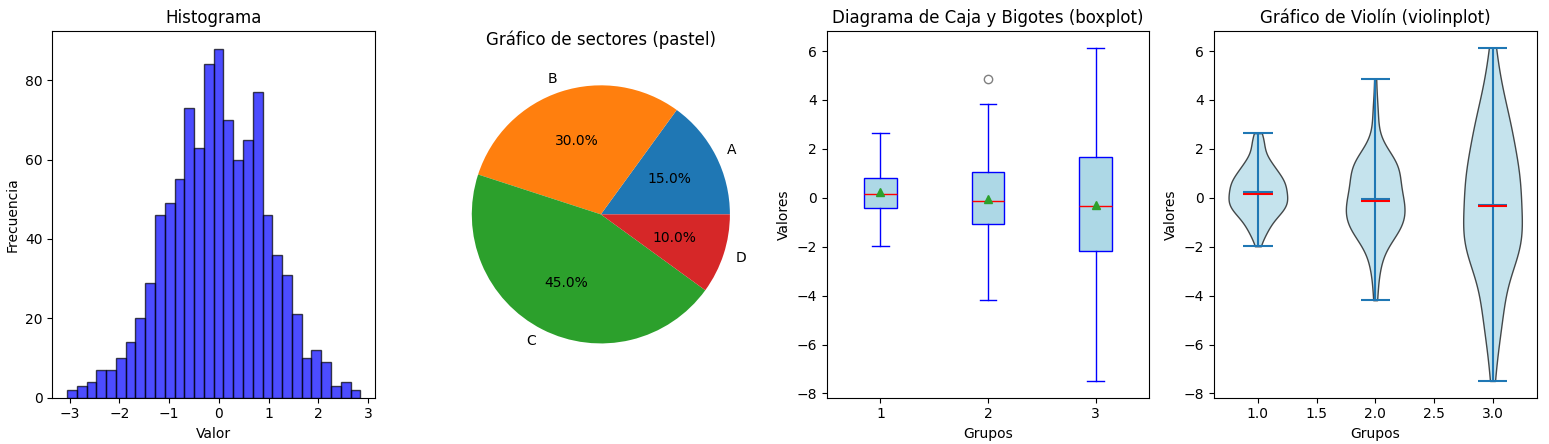
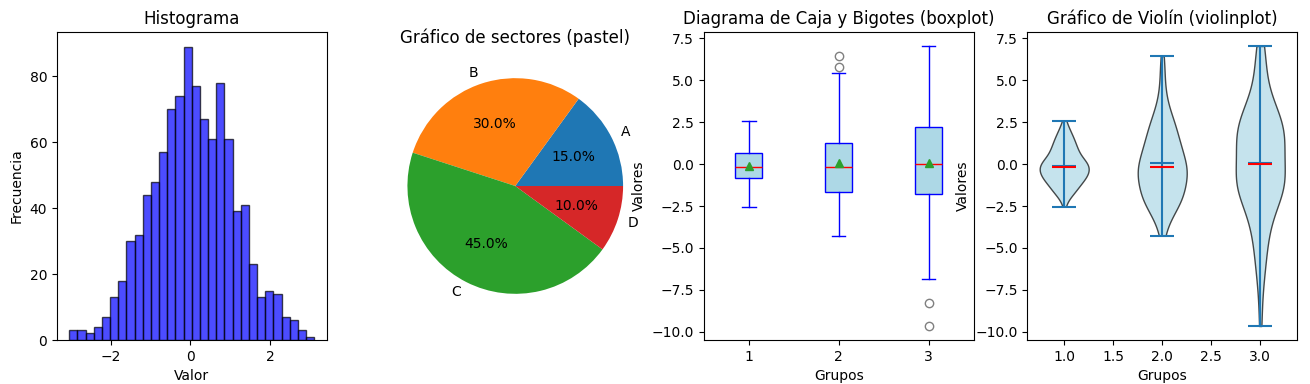
[python] avances en seccion 8-visualizacion

diff --git a/curso_python/actividades/seccion8_graficos_matplotlib.py b/curso_python/actividades/seccion8_graficos_matplotlib.py
@@ -1,28 +1,42 @@
-import matplotlib.pyplot as plt
-import numpy as np
+
+from mpl_toolkits.mplot3d import Axes3D # Habilita los gráficos 3D
+import matplotlib.pyplot as plt         # Creación de gráficos
+import seaborn as sns                   # Pares de gráficas (pairplots)
+import pandas as pd                     # Generación de DataFrames para los pairplots
+import numpy as np                      # Generación de números aleatorios
+
+TAMAÑO = (16, 4)  # Tamaño de figura horizontal
 
 def graficos_univariantes() -> None:
-  fig, ax = plt.subplots(1, 4)  # 1 row with 4 columns
+  """
+  Genera una figura con 4 subplots mostrando gráficos univariantes. Respectivamente:
+  - Histograma
+  - Gráfico de sectores (pastel o pie-chart en inglés)
+  - Diagrama de Caja y Bigotes (boxplot en inglés)
+  - Gráfico de Violín (violin-plot en inglés)
+  """
+  # Crear una figura con 4 subplots en horizontal
+  fig, ax = plt.subplots(1, 4, figsize=TAMAÑO)
 
   datos = np.random.standard_normal(1000)  # Datos aleatorios
   ax[0].hist(datos, bins=30, color='blue', alpha=0.7, edgecolor='black')  # Otros parámetros: cumulative, density/normalización
   ax[0].set_xlabel('Valor')
   ax[0].set_ylabel('Frecuencia')
-  ax[0].title.set_text('Histograma')
+  ax[0].set_title('Histograma')
 
   labels = 'A', 'B', 'C', 'D'
   sizes = [15, 30, 45, 10]
   ax[1].pie(sizes, labels=labels, autopct='%1.1f%%')
-  ax[1].title.set_text('Gráfico de sectores (pastel)')
+  ax[1].set_title('Gráfico de sectores (pastel)')
 
   data = [np.random.normal(0, std, 100) for std in range(1, 4)]
   ax[2].boxplot(data, vert=True, patch_artist=True, showmeans=True,  # Orientar cajas verticalmente, dar color y mostrar media (verde)
-            boxprops=dict(facecolor='lightblue', color='blue'),         # Personalizar cajas
-            whiskerprops=dict(color='blue'),                            # Personalizar bigotes (líneas verticales)
-            capprops=dict(color='blue'),                                # Personalizar 'caps' (límites de bigotes)
-            flierprops=dict(marker='o', color='red', alpha=0.5),        # Personalizar outliers
-            medianprops=dict(color='red'))                              # Personalizar mediana
-  ax[2].title.set_text('Diagrama de Caja y Bigotes (boxplot)')
+            boxprops=dict(facecolor='lightblue', color='blue'),      # Personalizar cajas
+            whiskerprops=dict(color='blue'),                         # Personalizar bigotes (líneas verticales)
+            capprops=dict(color='blue'),                             # Personalizar 'caps' (límites de bigotes)
+            flierprops=dict(marker='o', color='red', alpha=0.5),     # Personalizar outliers
+            medianprops=dict(color='red'))                           # Personalizar mediana
+  ax[2].set_title('Diagrama de Caja y Bigotes (boxplot)')
   ax[2].set_xlabel('Grupos')
   ax[2].set_ylabel('Valores')
   
@@ -32,51 +46,63 @@ def graficos_univariantes() -> None:
       pc.set_edgecolor('black')      # Personalizar color de los bordes
       pc.set_alpha(0.7)              # Configurar transparencia
   parts['cmedians'].set_edgecolor('red')
-  ax[3].title.set_text('Gráfico de Violín (violinplot)')
+  ax[3].set_title('Gráfico de Violín (violinplot)')
   ax[3].set_xlabel('Grupos')
   ax[3].set_ylabel('Valores')
 
   plt.show()
 
 def graficos_bivariantes() -> None:
-  fig, ax = plt.subplots(1, 4)  # Grid of 1 row with 4 columns
+  """
+  Genera una figura con 4 subplots mostrando gráficos bivariantes. Respectivamente:
+  - Diagrama de dispersión (i.e., gráfico de puntos) con una línea de regresión
+  - Gráfico de líneas
+  - Gráfico de barras apiladas
+  - Gráfico de barras agrupadas
+  """
+  # Crear una figura con 4 subplots en horizontal
+  fig, ax = plt.subplots(1, 4, figsize=TAMAÑO)
 
+  # Diagrama de dispersión con línea de regresión
   x = np.array([5, 7, 8, 5, 6, 7, 9, 2, 3, 4, 4, 4, 5, 6, 7])
   y = np.array([7, 4, 3, 8, 3, 2, 4, 9, 6, 1, 8, 7, 1, 2, 6])
   m, b = np.polyfit(x, y, 1)  # Calcular coeficientes de la línea de regresión
-  ax[0].scatter(x, y, color='red', marker='*', label='Samples')  # Color rojo y '*' como puntos
-  ax[0].plot(x, m*x + b, color='blue', label='Regression')  # Añadir línea de regresión
-  ax[0].grid()  # Add grid
-  ax[0].legend()  # Add legend
+  ax[0].scatter(x, y, color='red', marker='*', label='Muestras')  # Color rojo y '*' como puntos
+  ax[0].plot(x, m*x + b, color='blue', label='Regresión')       # Añadir línea de regresión
+  ax[0].set_title('Diagrama de dispersión con regresión')
   ax[0].set_xlabel('Variable X')
   ax[0].set_ylabel('Variable Y')
-  ax[0].title.set_text('Diagrama de dispersión con regresión')
+  ax[0].legend()  # Añadir leyenda
+  ax[0].grid()    # Añadir cuadrícula grid
 
+  # Gráfico de líneas
   x = [0, 1, 2, 3, 4]
   y1 = [0, 1, 4, 9, 16]
   y2 = [0, 1, 2, 3, 4]
-  ax[1].plot(x, y1, marker='x', linestyle='--', color='red', label='Linea 1')  # Linea discontinuea con puntos 'x'
-  ax[1].plot(x, y2, marker='s', color='orange', label='Lina 2')                # Linea naranja con puntos cuadrados
-  ax[1].legend()  # Add legend
+  ax[1].plot(x, y1, marker='x', linestyle='--', color='red', label='Línea 1')  # Linea discontinuea con puntos 'x'
+  ax[1].plot(x, y2, marker='s', color='orange', label='Línea 2')                # Linea naranja con puntos cuadrados
+  ax[1].set_title('Gráfico de líneas')
   ax[1].set_xlabel('Tiempo')
   ax[1].set_ylabel('Valor')
-  ax[1].title.set_text('Gráfico de líneas')
+  ax[1].legend()
 
+  # Gráfico de barras apiladas
   categorias = ['A', 'B', 'C', 'D']
   valores1 = [3, 2, 5, 7]
   valores2 = [4, 6, 2, 5]
   ax[2].bar(categorias, valores1, color='skyblue', label='Conjunto 1', hatch='/')  # Azul claro con patrón
   ax[2].bar(categorias, valores2, bottom=valores1, color='lightgreen', label='Conjunto 2', hatch='\\')  # Verde claro con patrón
-  ax[2].title.set_text('Gráfico de barras apiladas')
+  ax[2].set_title('Gráfico de barras apiladas')
   ax[2].set_xlabel('Categorías')
   ax[2].set_ylabel('Valores')
   ax[2].legend()
 
+  # Gráfico de barras agrupadas
   x = np.arange(len(categorias))
   ancho = 0.35  # Ancho de las barras
   ax[3].bar(x - ancho/2, valores1, width=ancho, label='Conjunto 1')
   ax[3].bar(x + ancho/2, valores2, width=ancho, label='Conjunto 2')
-  ax[3].title.set_text('Gráfico de barras agrupadas')
+  ax[3].set_title('Gráfico de barras agrupadas')
   ax[3].set_xlabel('Categorías')
   ax[3].set_ylabel('Valores')
   ax[3].set_xticks(x, categorias)  # Etiquetar correctamente las posiciones en el eje x.
@@ -86,21 +112,80 @@ def graficos_bivariantes() -> None:
 
 def graficos_multivariantes() -> None:
   """
-  heatmaps de múltiples variables (x, y, color)
-  dispersion + tamaño y color (x, y, size, color)
-  pares de gráficas (pairplots)
-  gráficos de dispersión 3d
-  gráficos de superfície 3d
+  Genera una figura con 4 subplots mostrando gráficos univariantes. Respectivamente:
+  - Mapa de calor (heatmap en inglés) para 3 variables (x, y, color)
+  - Gráfico de dispersión para 4 variables (x, y, size, color)
+  - Gráficos de dispersión 3D
+  - Gráficos de superfície 3D
   """
-  fig, ax = plt.subplots(1, 4)  # Grid of 1 row with 4 columns
+  # Crear 1 figura y 4 subplots (2 de ellos en 3D)
+  fig = plt.figure(figsize=TAMAÑO)
+  ax1 = fig.add_subplot(1, 4, 1)
+  ax2 = fig.add_subplot(1, 4, 2)
+  ax3 = fig.add_subplot(1, 4, 3, projection='3d')
+  ax4 = fig.add_subplot(1, 4, 4, projection='3d')
 
-  data = np.random.random((10, 10))
-  ax[0].imshow(data, cmap='hot', interpolation='nearest')
-  ax[0].title.set_text('Mapa de calor')
+  # Mapa de calor (heatmap) 3D (x, y, color)
+  data = np.random.random((10, 10))  # Valores en forma matricial (e.g., matriz de correlación, imagen, etc.)
+  mapa = ax1.imshow(data, cmap='hot', interpolation='nearest')  # Varios colores disponibles (viridis, plasma, inferno, magma, etc.)
+  ax1.set_title('Mapa de calor 3D')
+  fig.colorbar(mapa, ax=ax1)  # Barra de color (se puede compartir entre varios subplots)
+
+  # Diagrama de dispersión con colores y tamaños 4D (x, y, size, color)
+  x = np.random.random(100)             # Variable 1
+  y = np.random.random(100)             # Variable 2
+  sizes = 100 * np.random.random(100)   # Variable 3
+  colors = np.random.random(100)        # Variable 4
+  disp4d = ax2.scatter(x, y, c=colors, s=sizes, alpha=0.5, cmap='viridis')
+  ax2.set_title('Gráfico de dispersión 4D')
+  ax2.set_xlabel('Variable X')
+  ax2.set_ylabel('Variable Y')
+  fig.colorbar(disp4d, ax=ax2)
+
+  # Diagrama de dispersión 5D (x, y, z, size, color)
+  z = np.random.random(100)
+  disp5d = ax3.scatter(x, y, z, c=colors, s=sizes, cmap='viridis', alpha=0.6)
+  ax3.set_title('Gráfico de dispersión 5D')
+  ax3.set_xlabel('Variable X')
+  ax3.set_ylabel('Variable Y')
+  ax3.set_zlabel('Variable Z')
+  fig.colorbar(disp5d, ax=ax3)
+
+  # Gráfico de superfície 3D
+  x = np.linspace(-5, 5, 100)
+  y = np.linspace(-5, 5, 100)
+  x, y = np.meshgrid(x, y)
+  z = np.sin(np.sqrt(x**2 + y**2))
+  superficie = ax4.plot_surface(x, y, z, cmap='coolwarm', edgecolor='none')
+  ax4.set_title('Gráfico de superfície 3D')
+  ax4.set_xlabel('Variable X')
+  ax4.set_ylabel('Variable Y')
+  ax4.set_zlabel('Variable Z')
+  plt.colorbar(superficie, ax=ax4, label='Valor de Z')
+
   plt.show()
+
+def graficos_pairplot() -> None:
+  """
+  Genera una figura mostrando pares de gráficos (pair-plots en inglés) utilizando una variable categórica para dividir (y colorear) las muestras.
+  """
+  # DataFrame de ejemplo con variable categórica que divida las muestras en 2 grupos
+  data = pd.DataFrame({
+      'Variable A': np.random.random(100),
+      'Variable B': np.random.random(100),
+      'Variable C': np.random.random(100),
+      'Variable D': np.random.random(100)
+  })
+  data['Categoría'] = np.random.choice(['Grupo 1', 'Grupo 2'], size=100)
+
+  # Creación del pairplot categórico
+  sns.pairplot(data, hue='Categoría')
+  plt.show()
+
 
 if __name__ == '__main__':
    graficos_univariantes()
    graficos_bivariantes()
    graficos_multivariantes()
+   graficos_pairplot()
    # TODO: Add world map visualization like https://stackoverflow.com/questions/72598996/indexerror-too-many-indices-for-array-array-is-1-dimensional-but-2-were-index

diff --git a/curso_python/8_visualizacion_datos.md b/curso_python/8_visualizacion_datos.md
@@ -17,7 +17,7 @@ Veremos cómo organizarlos con varios `subplot` y `GridSpec`, controlar los ejes
 Veremos cómo personalizar temas, paletas y estilos con más facilidad que con `Matplotlib`, controlar títulos, etiquetas y leyendas y crear gráficos compuestos con FacetGrid, PairGrid y JointGrid.
 
 
-# 8.2. Introducción e Instalación de Matplotlib
+# 8.2. Matplotlib
 `Matplotlib` ofrece una **API orientada a objetos** para crear y manipular objetos como objetos como figuras y ejes. Es fácilmente integrable con `NumPy` y `Pandas` y permite **exportar los gráficos** generados en múltiples formatos (`PNG`, `PDF`, `SVG`, `EPS`, etc) con alta calidad. También ofrece **gráficos interactivos**
 
 Además de su interfaz orientada a objetos, `Matplotlib` ofrece `PyPlot`, otra inferfaz similar a MATLAB para crear gráficos rápidamente. Un ejemplo básico de uso de `PyPlot` es:
@@ -44,9 +44,25 @@ ax.set_ylabel('Eje Y')
 plt.show()  # Mostrar gráfico
 ```
 
-Respecto a los **tipos de gráficos**, tenemos los siguientes (el código para generarlos está en [actividades/seccion8_graficos_matplotlib.py](actividades/seccion8_graficos_matplotlib.py)):
+Respecto a los **tipos de gráficos**, en las siguientes imágenes se muestran los tipos de gráficos univariantes, bivariantes y multivariantes que propone `Matplotlib` (el código para generarlos está en [actividades/seccion8_graficos_matplotlib.py](actividades/seccion8_graficos_matplotlib.py)). Es necesario precisar que para utilizar los gráficos en 3D, se necesita utilizar el módulo `mpl_toolkits.mplot3d` e inicializar un objeto `Axes3D`.
 
-<img src="imgs/8_visualizacion__graficos_univariantes.png" height="300">
+<img src="imgs/8_visualizacion__graficos_univariantes.png" width="1000">
+<img src="imgs/8_visualizacion__graficos_bivariantes.png" width="1000">
+<img src="imgs/8_visualizacion__graficos_multivariantes.png" width="1000">
+
+Otro tipo de visualización son los **pares de gráficos** o *pairplots*, que consisten en combinar múltiples variables (4 en el ejemplo) y representar un gráfico de dispersión para cada posible combinación de variables, generando una matriz de gráficos. La **diagonal** de dicha matriz suele ser un histograma que represente la distribución de valores de cada variable. `Seaborn` permite utilizar una **variable categórica** para colorear los puntos, lo que puede ser útil si las muestras de cada variable pertenecen a categorías diferenciadas. Aquí se muestran ejemplos de ambos casos (el código también está en [actividades/seccion8_graficos_matplotlib.py](actividades/seccion8_graficos_matplotlib.py)):
+
+<img src="imgs/8_visualizacion__pairplot.png" height="600">
+
+En el script [actividades/seccion8_graficos_matplotlib.py](actividades/seccion8_graficos_matplotlib.py) se utiliza `plt.subplots()` para organizar **múltiples visualizaciones** en una sola figura. Sin embargo, `Matplotlib` ofrece un control más detallado mediante:
+- `plt.subplots_adjust()` y sus parámetros `wspace` y `hspace`, que controlan el espacio entre subplots.
+- `GridSpec`, que permite extender subpots sobre múltiples columnas o filas.
+
+Los **ejes** es donde mostramos los gráficos y ofrecen varios elementos configurables, como:
+- `set_xlim()` y `set_ylim()` para establecer los números mínimos y máximos de cada eje. Otra opción es `margins()`, que añade un margen alrededor de los datos mostrados sin necesidad de especificar los límites manualmente.
+- `set_xscale()` y `set_xscale()` para establecer la escala (linear, logarítmica, etc.). Algunas escalas aceptan el parámetro `linthresh`, que permite mantener una escala lineal hasta cierto punto.
+- `set_xlabel()`, `set_xlabel()` y `set_title()` para ponerles etiquetas a los ejes y al gráfico.
+- `set_xticks()`, `set_yticks()`, `set_xticklabels()` y `set_yticklabels()` para elegir dónde aparecen las marcas de los ejes y su contenido.
 
 Para guardar los gráficos generados, se utiliza `fig.savefig('grafico.png', dpi=300)` (72 dpi es suficiente para visualizaciones en pantalla, 300 es común para impresiones de alta calidad). Utilizar formatos vectoriales como SVG o PDF es mejor si los gráficos van a incluirse en documentos. Otros argumentos útiles son:
 - `metadata`, para incluir un título o un autor en los metadatos de la imagen generada.
